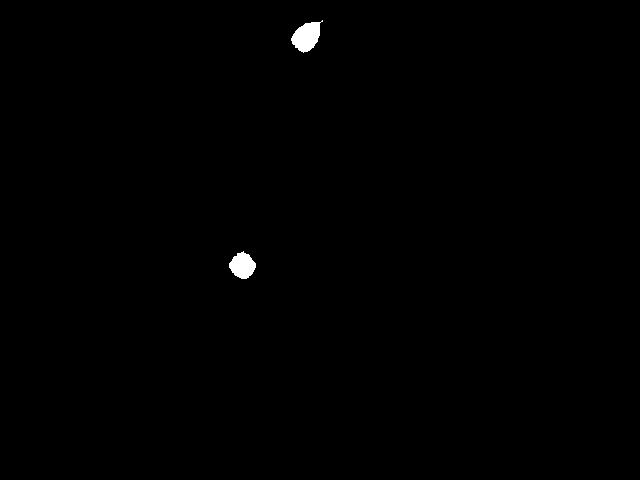
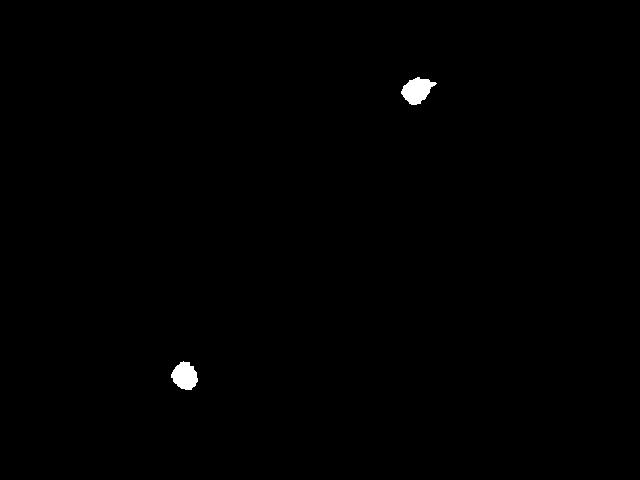
alteração

diff --git a/src/util/Main.java b/src/util/Main.java
@@ -1,6 +1,5 @@
 package util;
 
-import java.awt.Color;
 import java.awt.image.BufferedImage;
 import java.io.File;
 import java.io.IOException;
@@ -22,8 +21,8 @@ public class Main {
             ElementoEstruturante ee = new ElementoEstruturante();
             ee.carregarElementoEstruturante(new File("EE15.ee"));
 
-            Imagem imageI = new Imagem(ImageIO.read(new File("img/test-1.jpg")));
-            Imagem imageF = new Imagem(ImageIO.read(new File("img/test-2.jpg")));
+            Imagem imageI = new Imagem(ImageIO.read(new File("img/b2_f7/test-1.jpg")));
+            Imagem imageF = new Imagem(ImageIO.read(new File("img/b2_f7/test-0.jpg")));
 
             Imagem imagemsub = OperacaoMorfologica.subtracao(imageI, imageF);
             Imagem imagem = OperacaoMorfologica.erodir(imagemsub, ee);
@@ -34,7 +33,7 @@ public class Main {
             for (int y = 0; y < image2.getHeight(); y++) {
                 for (int x = 0; x < image2.getWidth(); x++) {
                     int bDiff = matriz[x][y];
-                    if (bDiff <= 20) {
+                    if (bDiff <= 30) {
                         bDiff = 0;
                     } else {
                         bDiff = 255;
@@ -62,13 +61,16 @@ public class Main {
                 }
             }
             ImageIO.write(image3, "jpg", new File("erosao.jpg"));
-            
+
             Set<String> casa = new HashSet<>();
             for (int y = 0; y < matriz.length; y++) {
                 for (int x = 0; x < matriz[y].length; x++) {
-                    int bDiff = matriz[x][y];
-                    if (bDiff <= 30) {
-                        casa.add(posicao(x, y));
+                    try {
+                        int bDiff = matriz[x][y];
+                        if (bDiff > 30) {
+                            casa.add(posicao(x, y));
+                        }
+                    } catch (Exception e) {
                     }
                 }
             }
